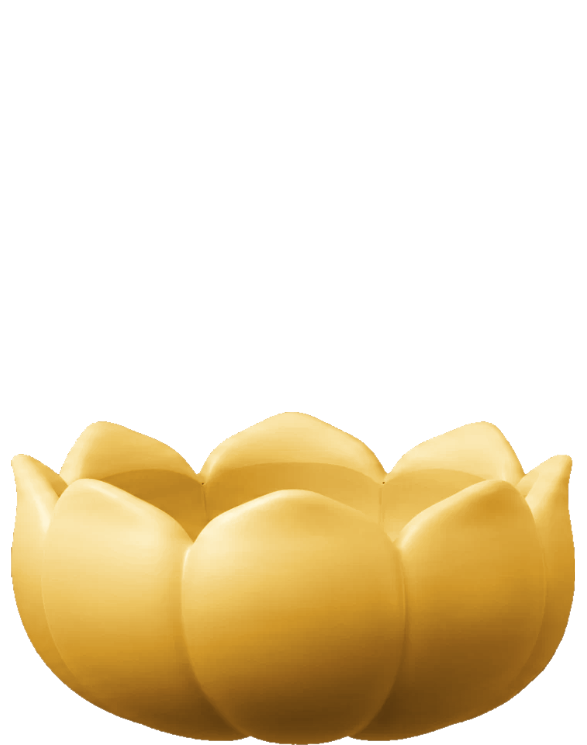
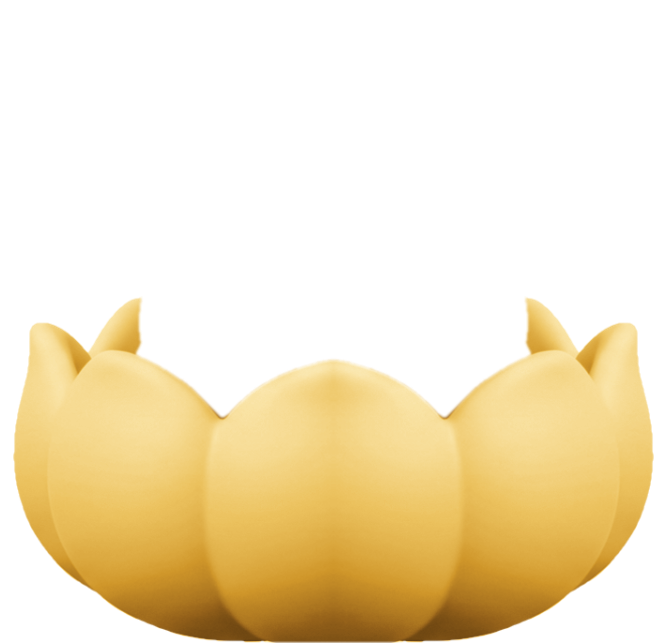
키캡 — 최초로 되돌린다
형: 「시발 야 키캡 너 최초엔 어떻게 했는데!!! 최초에 한 거처럼이라도 해.
     다운로드 폴더에 있잖아 레퍼」

되돌아가 보니 답이 거기 있었다(9ef3211, hwadu-keycap-layers.png).
최초는 **깊은 연꽃 그릇 하나를 셋이 나눠 쓰고** 몸을 그 속에 앉혔다.
그릇이 몸보다 넓고 속이 깊으니 **자를 일이 아예 없다** — 몸(z1)이
내려가면 그릇(z2) 뒤로 그냥 숨는다. 두 장이면 끝난다.

그 뒤에 새로 구운 「앞에서 본 그릇」으로 갈아 끼웠는데 **그 그릇은 몸보다
좁았다.** 그래서 자르고(rim) 오리고(mask) 속을 만들고(back) —
전부 좁은 그릇을 억지로 쓰려던 땜질이었고, 그때마다 팔이 삐져나왔다.
고쳐야 했던 건 코드가 아니라 그릇이었다.

· keycap-{동자·포대·미륵}-buddha.png / -cup.png 를 9ef3211 에서 되살렸다
  (601×860 · 667×643 · 564×643. 몸은 그릇 아가리 곡선대로 밑이 잘려 있다)
· 눌림 깊이는 살갗마다 --keycap-dip(동자 8% · 포대·미륵 10%)
· 포대승·불상 받침은 다시 금색 — 밝기는 그대로 두고 빛깔만 사다리로
· rim·mask·back 과 그 파일들은 전부 걷었다

Changed region(s): [[0.0, 0.4666, 0.9813, 1.0]]

diff --git a/src/app/moktak/HipMoktak.tsx b/src/app/moktak/HipMoktak.tsx
@@ -70,7 +70,7 @@ export type HipMoktakProps = {
   /** 지금 고른 목탁 살갗 그림 */
   mokSrc: string;
   /** 지금 고른 키캡 — 통짜 한 장 */
-  keySrc: { src: string; cup: string; back: string; mask: string; ar: number; rim: number };
+  keySrc: { cup: string; buddha: string; ar: number; dip: string };
   /** 키캡 갈래에서 무엇을 누르나 — 동자인가 목탁인가 */
   bead: React.ReactNode;
   bowl: React.ReactNode;
@@ -265,45 +265,21 @@ export default function HipMoktak({
                     가른 데가 없으니 이격도 빈 데도 없다. */}
                 <span
                   className="hip-keycap-stack"
-                  /* 숫자 그대로 넘기면 리액트가 px 를 붙인다 —
-                     aspect-ratio: 0.57px 는 무효라 판이 풀린다 */
+                  /* 숫자를 그대로 넘기면 리액트가 CSS 변수에 px 를 붙인다 —
+                     `aspect-ratio: 0.7px` 는 무효라 판이 통째로 풀린다 */
                   style={
                     {
                       "--keycap-ar": String(keySrc.ar),
-                      "--keycap-rim": String(keySrc.rim),
+                      "--keycap-dip": keySrc.dip,
                     } as React.CSSProperties
                   }
                 >
-                  {/* ── 몸은 **그릇 안에서만** 보인다 ─────────────
-                      형: 「정말 정면에서 본 키캡 눌리는 거 못 만드나,
-                           안 삐져나오게」
-
-                      여태 몸과 그릇을 그냥 포개 두었다. 그러니 몸이
-                      그릇보다 넓은 자리(포대승의 배, 동자의 어깨)에서
-                      옆으로 삐져나왔고, 누르면 그 삐져나온 살이 같이
-                      내려가 「그릇 옆을 스쳐 지나가는」 것으로 읽혔다.
-
-                      몸을 **창(well)** 안에 넣는다. 창 밑변은 그릇이
-                      몸을 좌우로 완전히 덮기 시작하는 줄(--keycap-rim,
-                      그림에서 한 줄씩 재서 찾았다)이다. 그 아래로는
-                      몸이 한 화소도 안 그려진다 — 삐져나올 수가 없다.
-                      그릇은 창 밖에서 제 모양대로 앞에 선다. */}
-                  {/* ── 속(back) — 그릇 안쪽 그늘 ────────────────
-                      제미나이 없이 **가진 그림에서** 판다:
-                      그릇 윤곽 안을 아래로 갈수록 짙은 그늘로 채운 한 장.
-                      몸이 내려가면 흰 바탕이 아니라 **그늘 속으로** 든다.
-                      그게 「들어간다」와 「가려진다」를 가른다. */}
+                  {/* 몸이 뒤(z1), 그릇이 앞(z2). 누르면 몸만 그릇 속으로
+                      내려가고 그릇은 한 화소도 안 움직인다.
+                      자르지도 오리지도 않는다 — **그릇이 몸보다 넓고
+                      속이 깊어서** 애초에 샐 데가 없다. */}
                   {/* eslint-disable-next-line @next/next/no-img-element */}
-                  <img className="hip-keycap-back" src={keySrc.back} alt="" draggable={false} />
-
-                  {/* 몸 — 네모로 자르지 않고 **그릇 윤곽으로** 오린다.
-                      그릇이 시작되기 전은 다 살고, 시작된 뒤로는 그릇
-                      안에서만 산다. 그 사이는 어깨가 뚝 끊기지 않게
-                      부드럽게 좁아든다(mask 그림에 그렇게 구워 두었다). */}
-                  <span className="hip-keycap-well">
-                    {/* eslint-disable-next-line @next/next/no-img-element */}
-                    <img className="hip-keycap-buddha" src={keySrc.src} alt="" draggable={false} />
-                  </span>
+                  <img className="hip-keycap-buddha" src={keySrc.buddha} alt="" draggable={false} />
                   {/* eslint-disable-next-line @next/next/no-img-element */}
                   <img className="hip-keycap-cup" src={keySrc.cup} alt="" draggable={false} />
                 </span>

diff --git a/src/app/moktak/page.tsx b/src/app/moktak/page.tsx
@@ -197,17 +197,32 @@ const SKINS = {
   // 여태 한 장을 갈라 쓰느라 애를 먹었다 — 자른 선이 곧 이격이었다.
   // 이제 처음부터 두 물건이라 자를 일이 없다. 받침이 앞(z 2), 몸이 뒤(z 1).
   // 몸은 온몸이 다 있으니 그릇 속으로 내려가도 빈 데가 안 생긴다.
-  // `rim` — 그릇이 몸을 **좌우로 완전히 덮기 시작하는 줄**(판 높이의 %).
-  // 그림에서 한 줄씩 재서 찾았다: 그 줄부터 아래로는 몸의 어느 화소도
-  // 그릇 밖으로 안 나온다. 몸은 그 줄까지만 그린다 — 삐져나올 수가 없다.
-  //   동자 470/677 · 포대 475/745 · 미륵 452/705
+  // ── 최초로 되돌린다 ──────────────────────────────────────
+  // 형: 「시발 야 키캡 너 최초엔 어떻게 했는데!!! 최초에 한 거처럼이라도
+  //      해. 다운로드 폴더에 있잖아 레퍼」 — 맞다. 되돌아가 보니 답이
+  //      거기 있었다.
+  //
+  // 최초(9ef3211)는 **깊은 연꽃 그릇 하나를 셋이 나눠 쓰고**, 몸을 그
+  // 속에 앉혔다. 그릇이 몸보다 넓고 속이 깊으니 **자를 일이 아예 없다** —
+  // 몸(z1)이 내려가면 그릇(z2) 뒤로 그냥 숨는다.
+  //
+  // 그 뒤에 형이 새로 구워 준 「앞에서 본 그릇」으로 갈아 끼웠는데,
+  // 그 그릇은 몸보다 **좁았다.** 그래서 자르고(rim) 오리고(mask) 속을
+  // 만들고(back) — 전부 좁은 그릇을 억지로 쓰려던 땜질이었고, 그때마다
+  // 팔이 삐져나왔다. 그릇을 바꾸는 게 맞았다.
+  //
+  // `buddha` = 그릇 아가리 곡선대로 밑을 잘라 둔 몸. `dip` = 눌렸을 때
+  // 내려가는 깊이(그릇 키 대비).
   keycap: [
     { id: "dongja", name: "동자", src: "/obj/keycap-dongja.png",
-      cup: "/obj/keycap-dongja-cup.png", ar: 450 / 677, rim: 69.4, dot: "#ef86b0" },
-    { id: "podae", name: "포대", src: "/obj/keycap-podae.png",
-      cup: "/obj/keycap-podae-cup.png", ar: 587 / 745, rim: 63.8, dot: "#e0b354" },
-    { id: "mireuk", name: "미륵", src: "/obj/keycap-mireuk.png",
-      cup: "/obj/keycap-mireuk-cup.png", ar: 549 / 705, rim: 64.1, dot: "#cfa03c" },
+      cup: "/obj/keycap-dongja-cup.png", buddha: "/obj/keycap-dongja-buddha.png",
+      ar: 601 / 860, dip: "8%", dot: "#ef86b0" },
+    { id: "podae", name: "포대", src: "/obj/keycap-podae-cup.png",
+      cup: "/obj/keycap-podae-cup.png", buddha: "/obj/keycap-podae-buddha.png",
+      ar: 667 / 643, dip: "10%", dot: "#e0b354" },
+    { id: "mireuk", name: "미륵", src: "/obj/keycap-mireuk-cup.png",
+      cup: "/obj/keycap-mireuk-cup.png", buddha: "/obj/keycap-mireuk-buddha.png",
+      ar: 564 / 643, dip: "10%", dot: "#cfa03c" },
   ],
 } as const;
 
@@ -292,15 +307,7 @@ export default function MoktakPage() {
   /** 키캡 한 장 — 통짜 그대로 */
   const keySrc = (() => {
     const k = SKINS.keycap.find((x) => x.id === skin.keycap) ?? SKINS.keycap[0];
-    return {
-      src: 그림(k.src),
-      cup: 그림(k.cup),
-      // 속과 본 — 그릇 그림에서 판 두 장(_kc 파이프라인)
-      back: 그림(k.cup.replace("-cup.png", "-back.png")),
-      mask: 그림(k.cup.replace("-cup.png", "-mask.png")),
-      ar: k.ar,
-      rim: k.rim,
-    };
+    return { cup: 그림(k.cup), buddha: 그림(k.buddha), ar: k.ar, dip: k.dip };
   })();
   /** 지금 고른 염주 살갗이 **가로형**(3D 로 구운 누운 고리)인가 */
   const beadWide = (

diff --git a/src/app/hip.css b/src/app/hip.css
@@ -4154,33 +4154,34 @@ html[data-theme="light"] {
     height: calc(10000% / var(--keycap-rim, 66));
     object-fit: contain;
   }
-  /* ── 뒷꽃잎은 **만들어낼 수 없다** ──────────────────────
-     두 번 해 봤다.
-     ① 몸을 그릇 윤곽으로 오리기(mask) — 그릇이 시작되는 줄에서 어깨가
-        뚝 끊기지 않게 부드럽게 좁혔더니, 그 「부드러운」 구간이 곧
-        **그릇보다 넓은 구간**이라 팔이 꽃잎 밖으로 샜다.
-     ② 그릇 그림을 줄여 위로 올리고 짙게 눌러 뒷꽃잎처럼 쓰기 —
-        포대승은 몸이 넓어 통째로 가려져 안 보이고, 동자는 머리 옆에
-        검붉은 얼룩으로 앉았다.
-     까닭은 하나다: **이 그림에는 뒷꽃잎이 아예 없다.** 앞에서 본 한 장
-     이라 뒤쪽 꽃잎은 애초에 안 그려져 있고, 없는 것을 늘리거나 눌러서
-     만들 수는 없다. 앞꽃잎·뒷꽃잎이 갈린 그림이 와야 한다.
-     그때까지는 **그릇이 몸을 완전히 덮는 줄에서 네모로 자른다** —
-     자른 선은 늘 그릇 화소 뒤라 안 보이고, 밖으로 샐 길이 없다. */
-  .hip-keycap-back { display: none; }
+  /* ── 최초로 되돌린다 ──────────────────────────────────
+     형: 「최초엔 어떻게 했는데!!! 최초에 한 거처럼이라도 해」
+
+     자르고(rim) 오리고(mask) 속을 만들던(back) 것은 전부 **몸보다 좁은
+     그릇**을 억지로 쓰려던 땜질이었다. 그릇을 바꾸면 그 일이 다 없어진다.
+     깊은 그릇에서는 몸이 그냥 뒤로 숨는다 — 두 장이면 끝난다. */
+  .hip-keycap-well,
+  .hip-keycap-back { display: contents; }
+  .hip-keycap-buddha,
+  .hip-keycap-cup {
+    position: absolute;
+    inset: 0;
+    width: 100%;
+    height: 100%;
+    object-fit: contain;
+    display: block;
+  }
+  /* 몸이 뒤, 그릇이 앞 — 몸이 내려가면 그릇 뒤로 숨는다 */
   .hip-keycap-buddha {
     z-index: 1;
     transform-origin: 50% 100%;
     transition: transform 0.34s cubic-bezier(0.2, 1.7, 0.35, 1);
   }
   .hip-keycap-cup { z-index: 2; }
-  /* 형: 「키캡 오브제가 안으로 들어가야지」 — 13% 로는 그릇 뒤로 비켜설
-     뿐이었다. 쉬는 자리에서 이미 그릇에 담겨 있고(그릇이 몸을 6할쯤
-     덮는다), 누르면 거기서 한 뼘 더 가라앉는다 */
-  /* 앞에서 본 그릇이라 속이 안 보인다 — 뒤로 내려가는 만큼이 그대로
-     「들어간다」로 읽힌다. 가릴 걱정이 없으니 넉넉히 보낸다 */
+  /* 눌리면 몸만 **쑥** 내려간다 — 깊이는 살갗마다(--keycap-dip).
+     그릇은 한 화소도 안 움직인다(형: 「받침은 그대로 있도록」) */
   .hip-keycap.on .hip-keycap-buddha {
-    transform: translateY(19%);
+    transform: translateY(var(--keycap-dip, 9%));
     transition: transform 0.07s cubic-bezier(0.3, 0, 0.2, 1);
   }
   /* 한 장짜리 시절의 「통째로 찌그러뜨리기」는 걷는다 */
